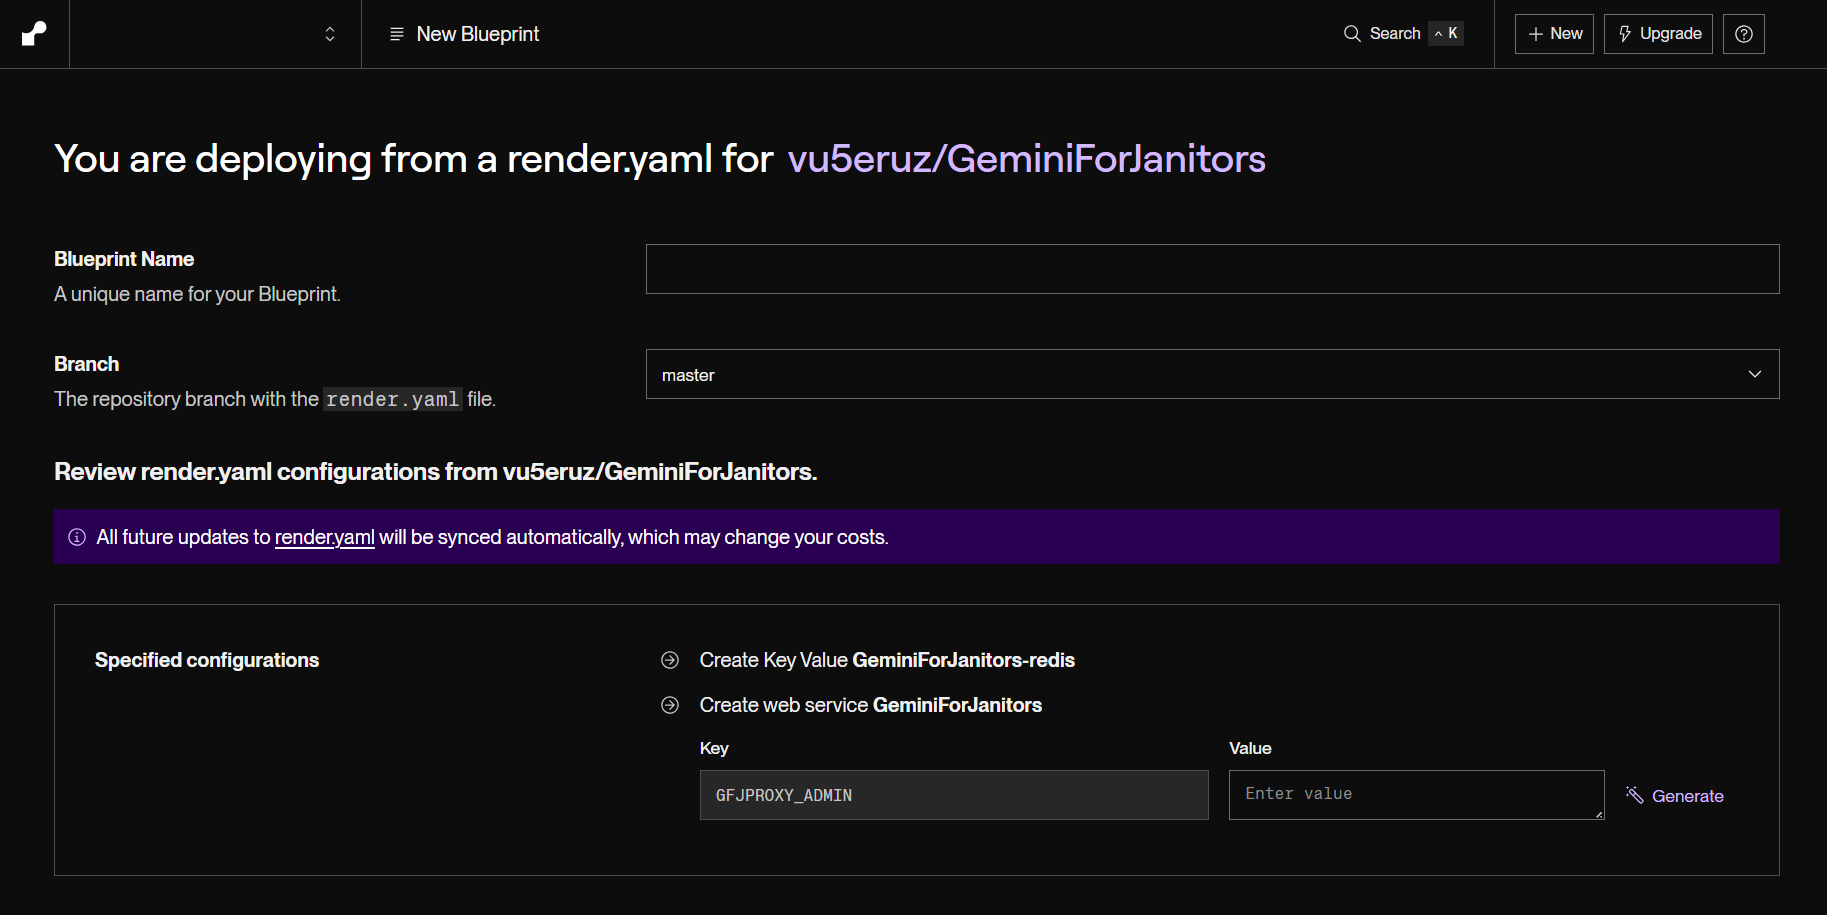
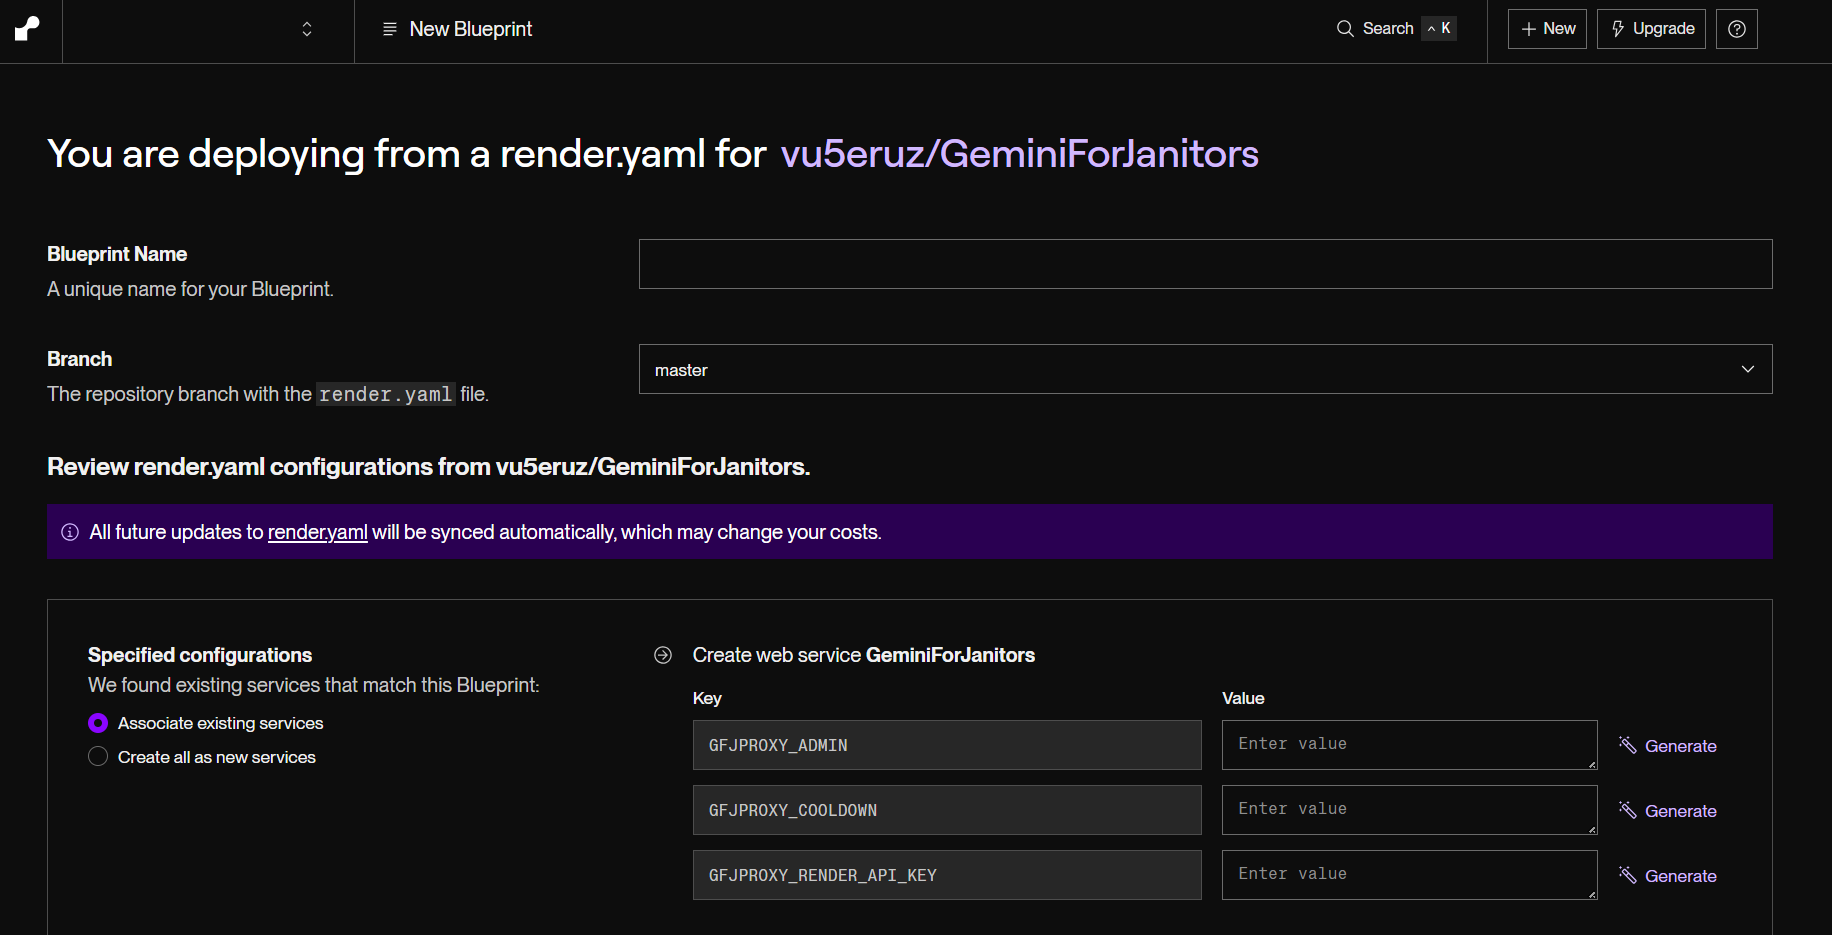
Update Deploying on Render guide

diff --git a/README.md b/README.md
@@ -34,7 +34,13 @@ Once you are in the New Blueprint page, copy-paste https://github.com/vu5eruz/Ge
 
 <img src="images/render-3.png" />
 
-Put "gfjproxy" (without quotes) into **Blueprint Name**. Put your contacts into the value of **GFJPROXY_ADMIN**, such as your Discord or JanitorAI handles or just your name, otherwise your proxy will say it is hosted by Anonymous. If you see **GFJPROXY_RENDER_API_KEY**, you can optionally give your proxy the API key of your Render account, allowing it to tell its own bandwidth usage. Both values can be left empty.
+Put "gfjproxy" (without quotes) into **Blueprint Name**.
+
+Put your contacts into the value of **GFJPROXY_ADMIN**, such as your Discord or JanitorAI handles or just your name, otherwise your proxy will say it is hosted by Anonymous.
+
+Put how long the cooldown time will be *in seconds* into the value of **GFJPROXY_COOLDOWN**. This will help reduce the load on you proxy if you have a large number of users and you are bound to the 100 GB bandwidth quota.
+
+If you have a Render API key for your account (you can get one in https://dashboard.render.com/u/settings?add-api-key), you can put it into the value of **GFJPROXY_RENDER_API_KEY** to make your proxy track its own bandwidth usage, enabling *adaptive cooldown* (WIP).
 
 <img src="images/render-4.png" />
 
@@ -42,6 +48,8 @@ With this, your proxy should be up and running shortly. If you go back to your d
 
 <img src="images/render-5.png" />
 
-Use the Logs tab to see how people use your proxy. Use the Metrics tab to see how much bandwidth has been used. Optionally, you may want to change the default cooldown value from 60 seconds to something else or set it zero to disable it; for that, go to the Environment tab and change the value of GFJPROXY_COOLDOWN.
-
 <img src="images/render-6.png" />
+
+Use the **Logs** tab to see how people use your proxy and diagnose any errors. Use the **Metrics** tab to see how much bandwidth has been used.
+
+You can change the cooldown time anytime by going into the **Environment** tab and changing the value of GFJPROXY_COOLDOWN.
